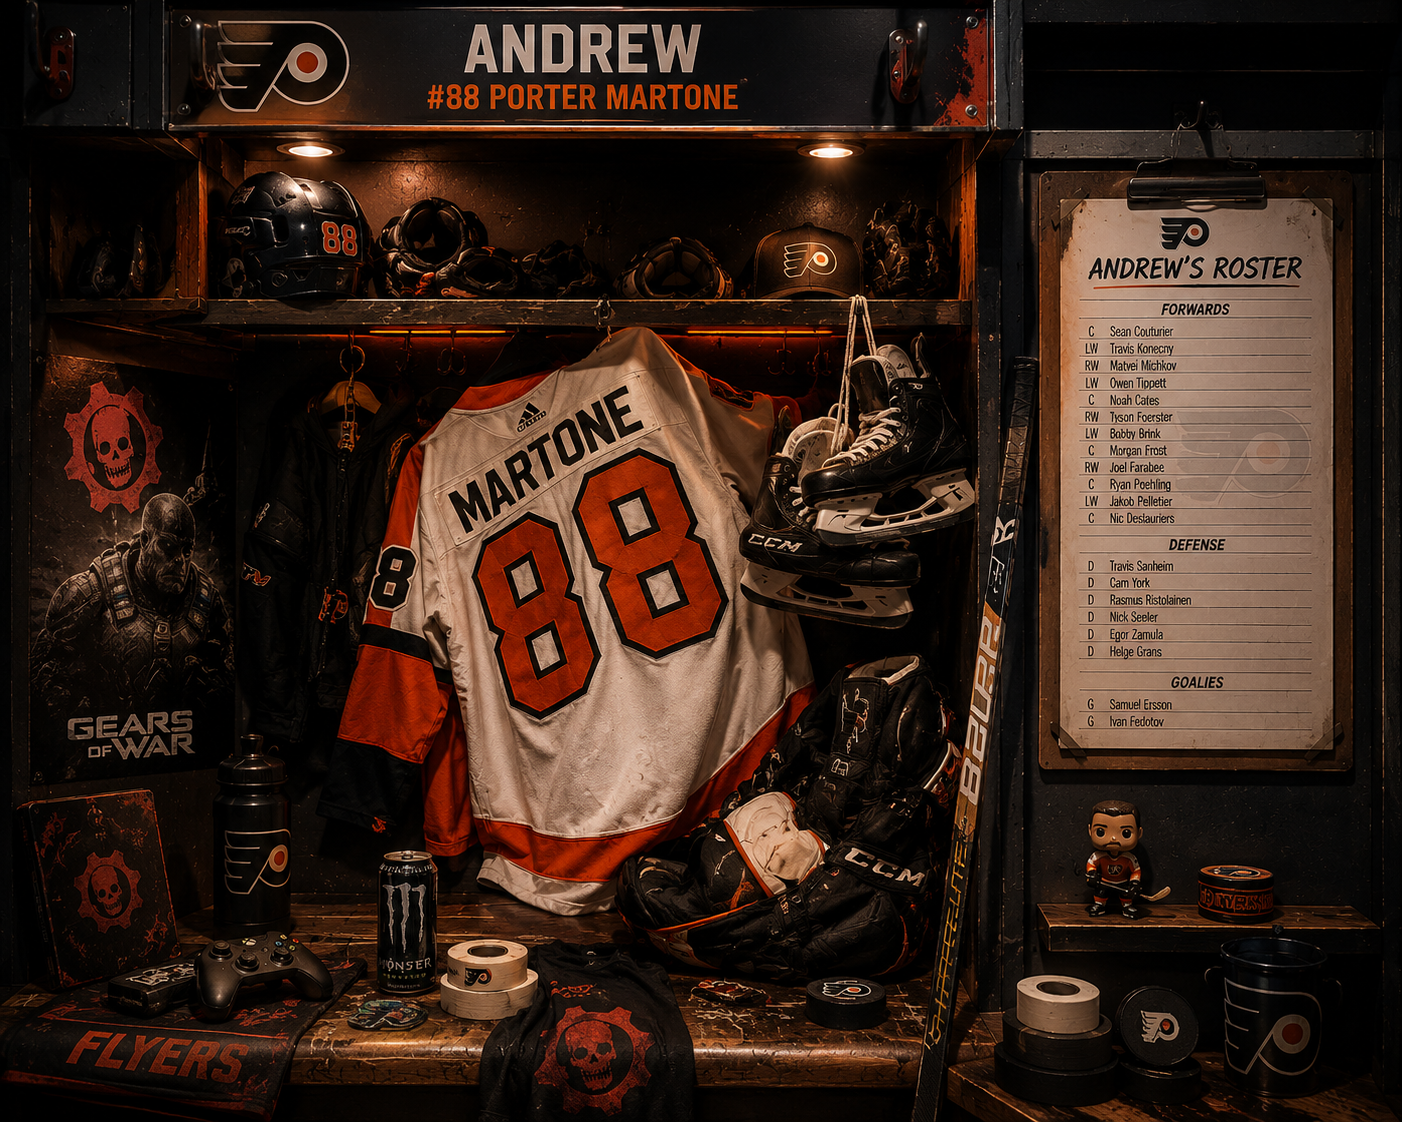
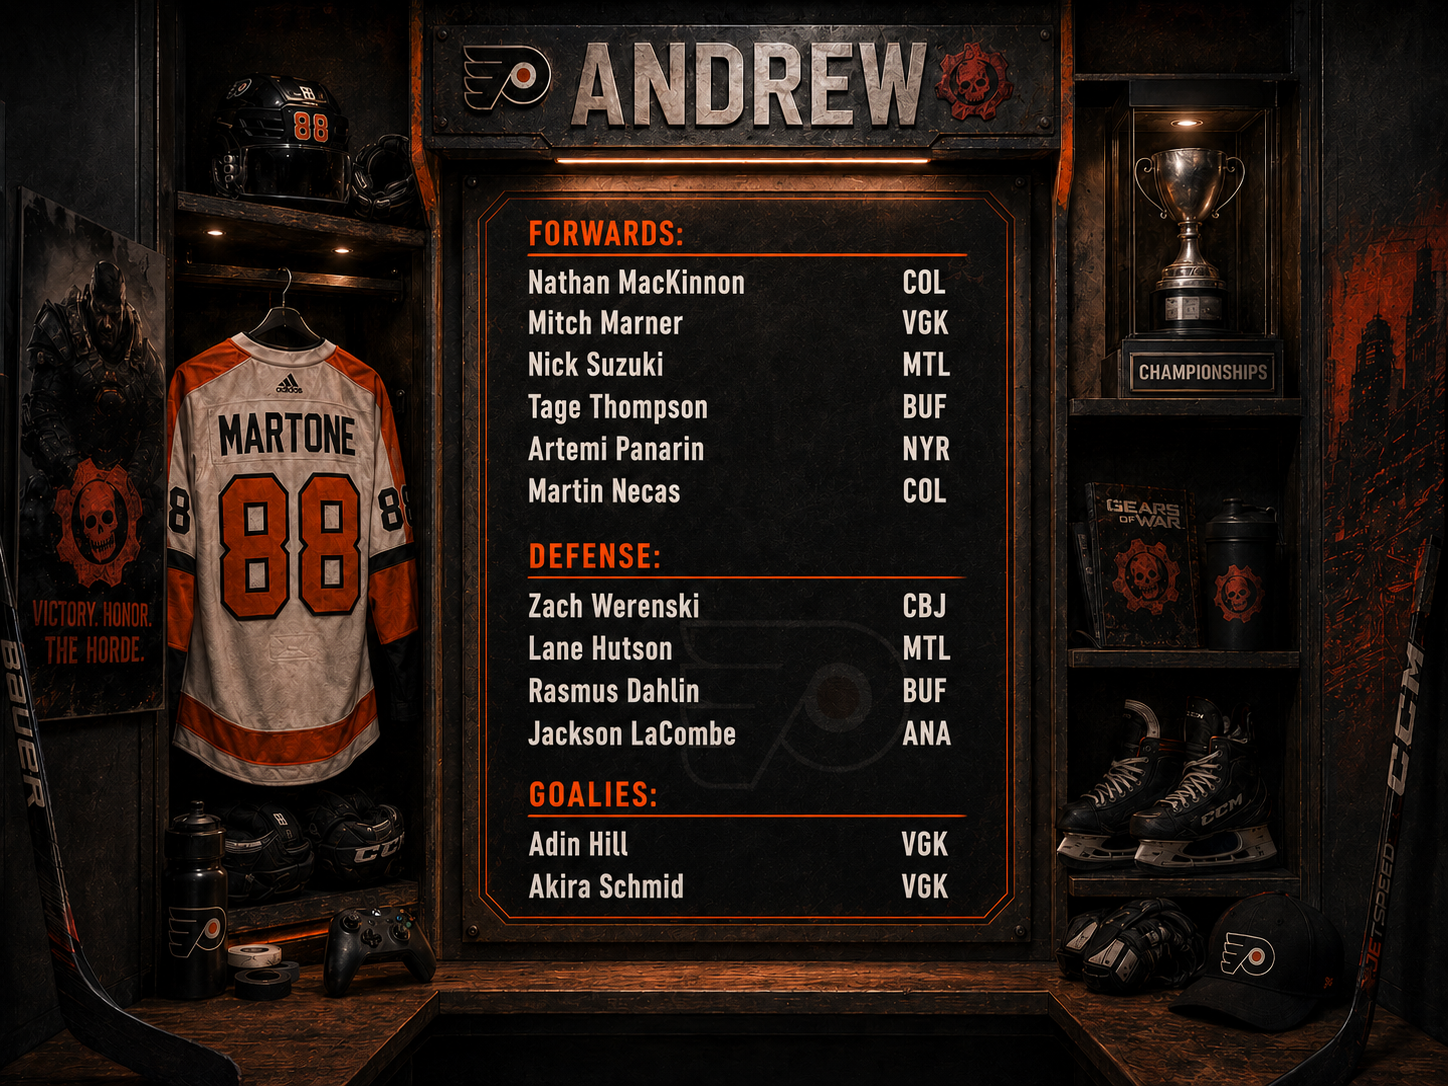
Add files via upload

diff --git a/index.html b/index.html
@@ -3710,35 +3710,35 @@
     ];
     const STALLS = {
       nick: {
-        image:'assets/images/locker-stall-nick.png?v=148',
+        image:'assets/images/locker-stall-nick.png?v=168',
         number:'72',
         jersey:'McKenna / Rafer Alston',
         theme:'Leafs • Raptors • Bat Flip • Kawhi • bands',
         ready:true
       },
       andrew: {
-        image:'assets/images/locker-stall-andrew.png',
+        image:'assets/images/locker-stall-andrew.png?v=168',
         number:'88',
         jersey:'Porter Martone',
         theme:'Flyers • Gears of War • gritty orange/black',
         ready:true
       },
       tyler: {
-        image:'assets/images/locker-stall-tyler.png',
+        image:'assets/images/locker-stall-tyler.png?v=168',
         number:'13',
         jersey:'Domi / Clark',
         theme:'Leafs tough guys • GoldenEye 007',
         ready:true
       },
       chris: {
-        image:'assets/images/locker-stall-chris.png',
+        image:'assets/images/locker-stall-chris.png?v=168',
         number:'93',
         jersey:'Vince Carter / Gilmour',
         theme:'Raptors • Mario Kart • March Madness',
         ready:true
       },
       scott: {
-        image:'assets/images/locker-stall-scott.png',
+        image:'assets/images/locker-stall-scott.png?v=168',
         number:'???',
         jersey:'Mystery Man',
         theme:'International man of mystery • secret draft files',
@@ -4503,5 +4503,7 @@
 })();
 </script>
 
+
+<!-- v168 final static roster room images installed -->
 </body>
 </html>

diff --git a/README.md b/README.md
@@ -35,3 +35,12 @@ Without those environment variables, the site still works, but the locked lotter
 
 
 V160: Home page locked to the Locker Room TV standings theme. Home Page Editor tab removed.
+
+
+## v168 final roster room image update
+- Replaced Nick roster room with final roster-prominent Matthews/Raptors/AND1/Kawhi/Bautista theme.
+- Replaced Andrew roster room with corrected static roster Flyers/Gears theme.
+- Replaced Tyler roster room with Leafs/GoldenEye/tough-guy theme.
+- Replaced Chris roster room with Raptors/Mario Kart/March Madness theme.
+- Replaced Scott roster room with mystery/spy theme.
+- Added cache-busting image version v=168.
